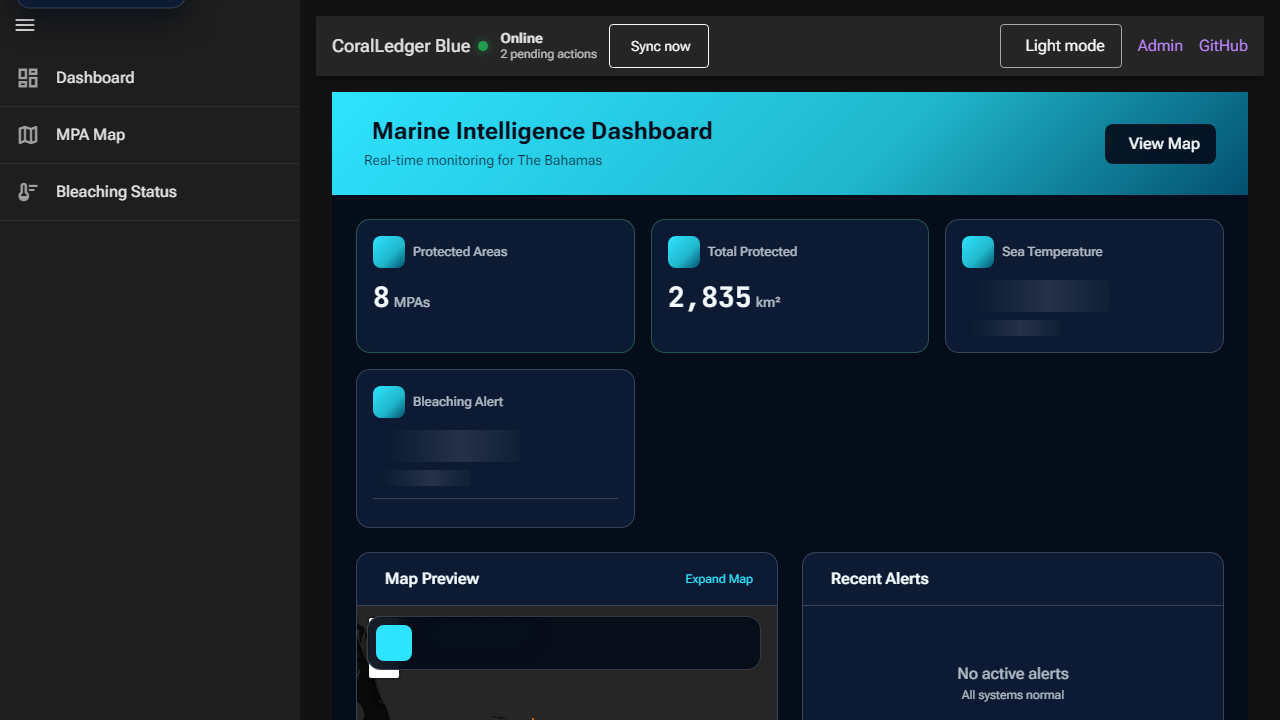
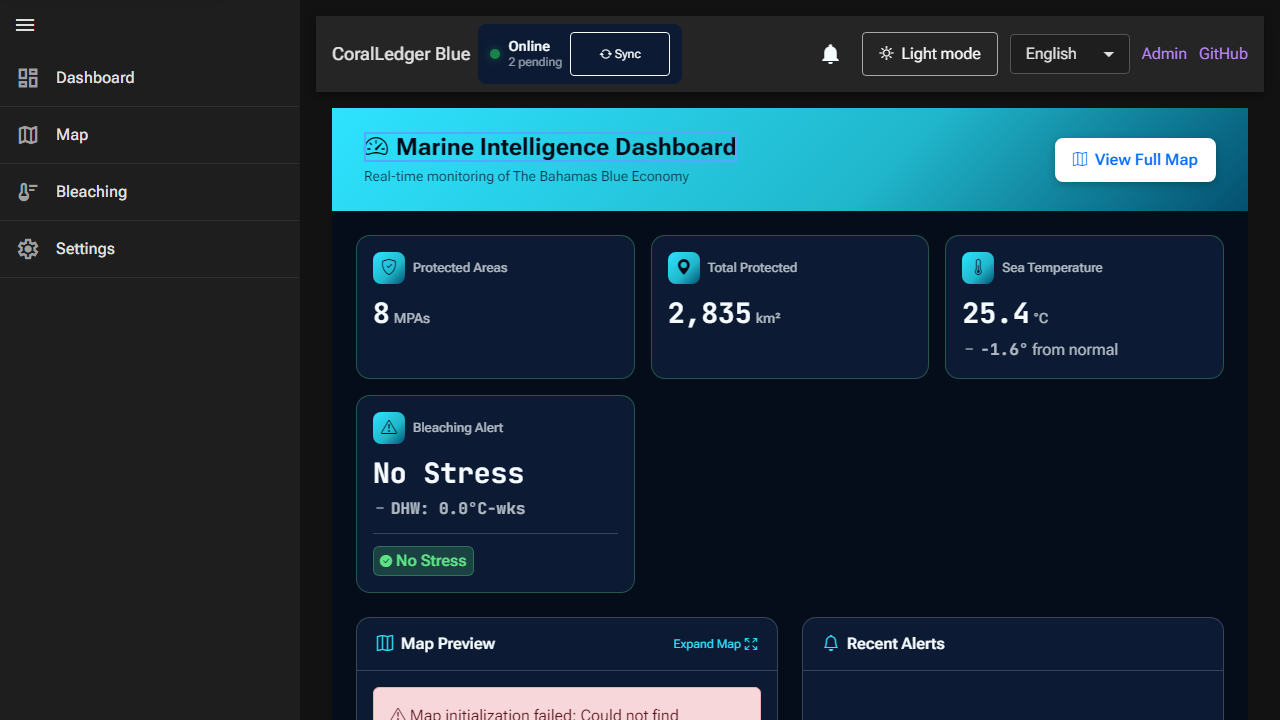
docs: Update screenshots with fresh Playwright captures
- Replace dashboard screenshot with new capture showing real data
  (Sea Temperature 25.4°C, Bleaching Alert "No Stress", DHW: 0.0°C-wks)
- Add new list view screenshot showing MPA table with all 8 protected areas
- Update README screenshot descriptions to match new images
- Keep existing map screenshot (shows MPA boundaries correctly)

Screenshots captured via Playwright E2E visual tests.

diff --git a/README.md b/README.md
@@ -75,16 +75,16 @@ We're actively looking for contributors in these areas:
 ## Screenshots
 
 ### Marine Intelligence Dashboard
-![Dashboard with KPI cards, map preview, and alerts panel](docs/screenshots/dashboard-dark.png)
-*Real-time KPI cards for Protected Areas (8 MPAs), Total Protected area (2,835 km²), Sea Temperature, and Bleaching Alerts. The integrated map preview and recent alerts panel provide at-a-glance monitoring.*
+![Dashboard with KPI cards showing real-time marine data](docs/screenshots/dashboard-dark.png)
+*Real-time monitoring dashboard showing Protected Areas (8 MPAs), Total Protected area (2,835 km²), Sea Temperature (25.4°C), and Bleaching Alert status. Features language selector, sync controls, and quick navigation.*
 
-### Interactive Map with Dark Theme
+### Interactive Map with MPA Boundaries
 ![Interactive map with CartoDB Dark Matter tiles and MPA polygons](docs/screenshots/map-dark-with-legend.png)
-*Interactive map displays all 8 Bahamas MPAs with protection level styling (No-Take, Highly Protected, Lightly Protected), CartoDB Dark Matter tiles, and a dynamic legend.*
+*Interactive map displays all 8 Bahamas MPAs with protection level styling (No-Take, Highly Protected, Lightly Protected), CartoDB Dark Matter tiles, and a dynamic legend. Fishing Activity toggle enables vessel tracking overlay.*
 
-### Light Theme with MPA List
-![Interactive map with OpenStreetMap tiles and full MPA list](docs/screenshots/map-light-with-mpa-list.png)
-*Light mode with OpenStreetMap tiles and the full MPA list showing protection levels.*
+### MPA List View with Details
+![MPA list view showing all protected areas with details](docs/screenshots/list-view-dark.png)
+*Comprehensive list view showing all Marine Protected Areas with Name, Island Group, Protection Level, Area (km²), and GPS Coordinates. Click any MPA to view detailed information.*
 
 > **Note:** To see the app in action, run `dotnet run --project src/CoralLedger.Blue.AppHost`
 
